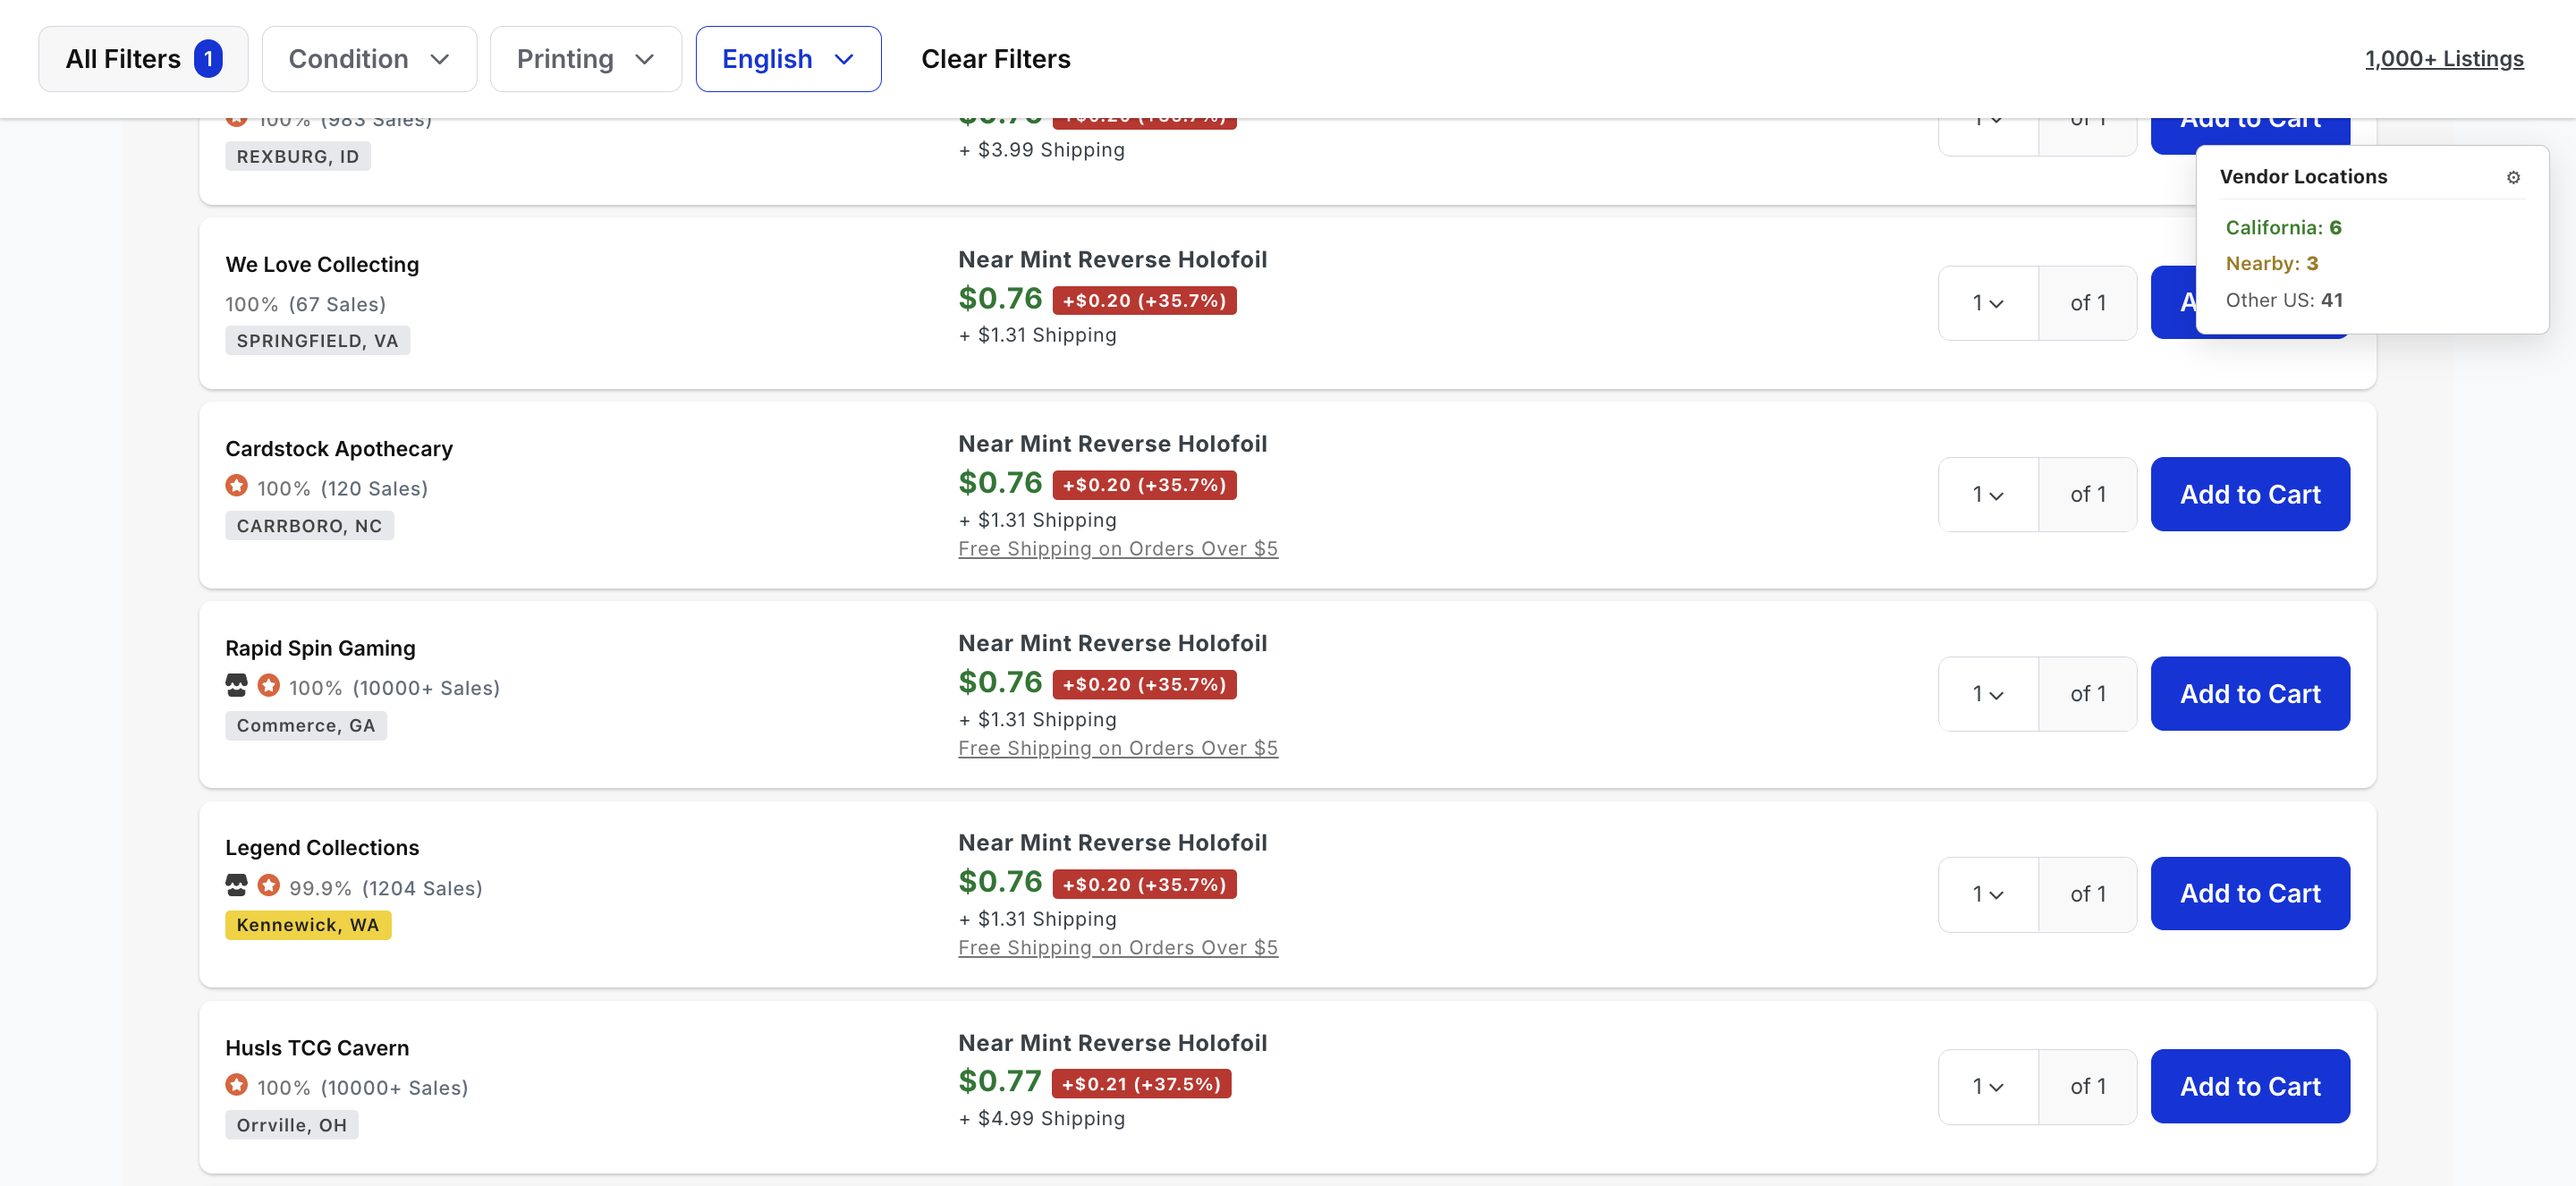
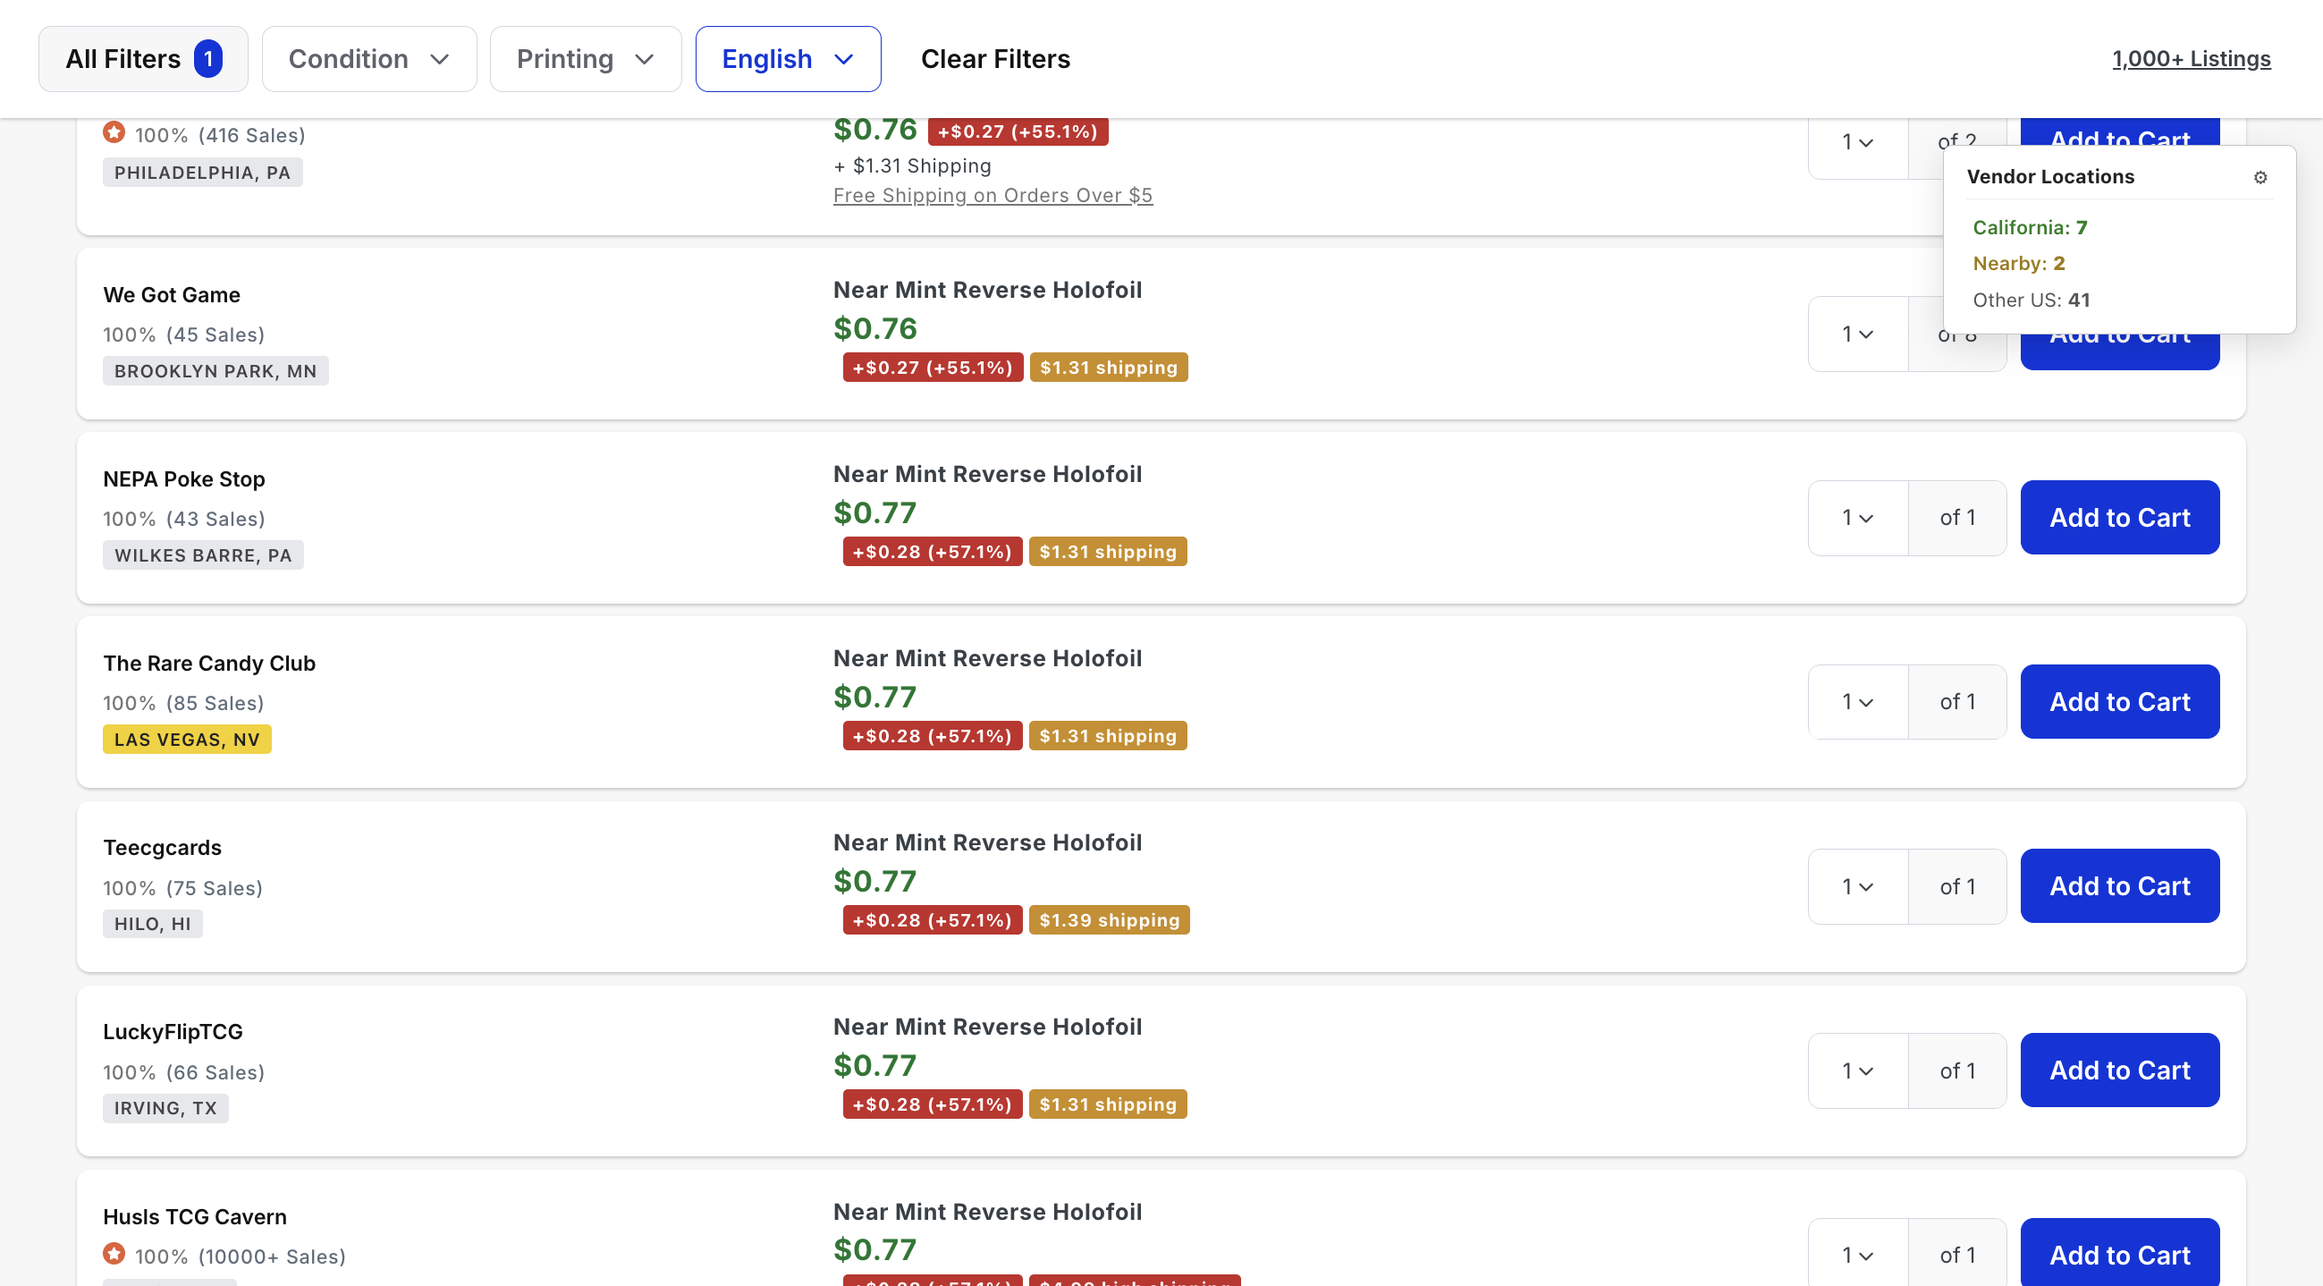
Add shipping/Deal chips, cart subtotal in header, and per-seller Deal math
Each listing now shows a chip row on the shipping line with three chips:
the existing price-vs-market chip, a new shipping chip (green for
included, yellow under $2, red >= $2 with "high shipping" text), and a
purple Deal chip when the all-in cost beats the market price.

The Deal calculation factors in TCGplayer's per-seller "Free Shipping
on Orders Over $5" promo. The extension fetches the user's current cart
summary from mpgateway.tcgplayer.com (added as a host permission) and
keeps a per-seller subtotal map. A listing's stated shipping is treated
as $0 only when both the promo is on the listing and the seller's
existing cart contribution plus the listing's price clears the $5
threshold. Otherwise stated shipping is used. Deal chips re-evaluate
whenever the cart count changes.

The cart subtotal is also rendered next to the header cart count in the
same green TCGplayer uses for listing prices, always visible (even at
$0.00).

CLAUDE.md added with a note that any change to the Deal math has to
update the README in the same commit. Hero and settings screenshots
re-captured to reflect the new chip layout.

diff --git a/content.js b/content.js
@@ -131,11 +131,80 @@
   }
   applyHideToggles();
 
+  const FREE_SHIP_THRESHOLD = 5.00;
+  const CART_SUMMARY_URL = (key) => `https://mpgateway.tcgplayer.com/v1/cart/${key}/summary?mpfev=5106`;
+  const cartSellerSubtotal = new Map();
+  let cartSubtotal = 0;
+  let cartFetchPromise = null;
+
+  function getCartKey() {
+    const m = document.cookie.match(/StoreCart_PRODUCTION=CK=([a-f0-9]+)/);
+    return m ? m[1] : null;
+  }
+
+  async function refreshCart() {
+    const key = getCartKey();
+    if (!key) {
+      cartSubtotal = 0;
+      cartSellerSubtotal.clear();
+      renderCartBadge();
+      return;
+    }
+    if (cartFetchPromise) return cartFetchPromise;
+    cartFetchPromise = (async () => {
+      try {
+        const r = await fetch(CART_SUMMARY_URL(key), { credentials: 'include', headers: { Accept: 'application/json' } });
+        if (r.ok) {
+          const json = await r.json();
+          const cart = json && json.results && json.results[0];
+          cartSellerSubtotal.clear();
+          if (cart) {
+            for (const s of cart.sellers || []) {
+              if (s.sellerKey) cartSellerSubtotal.set(s.sellerKey, Number(s.productTotalCost) || 0);
+            }
+            cartSubtotal = Number(cart.itemSubtotal) || 0;
+          } else {
+            cartSubtotal = 0;
+          }
+        }
+      } catch (_) {}
+      renderCartBadge();
+      recomputeDealChips();
+      cartFetchPromise = null;
+    })();
+    return cartFetchPromise;
+  }
+
+  function renderCartBadge() {
+    const countEl = document.querySelector('.mp-header__content__cart-count');
+    if (!countEl) return;
+    let label = countEl.querySelector('.tcgplus-cart-subtotal');
+    if (!label) {
+      label = document.createElement('span');
+      label.className = 'tcgplus-cart-subtotal';
+      countEl.appendChild(label);
+    }
+    label.textContent = `$${cartSubtotal.toFixed(2)}`;
+  }
+
+  let cartCountObserver = null;
+  function watchCartCount() {
+    const countEl = document.querySelector('.mp-header__content__cart-count__chip');
+    if (!countEl || cartCountObserver) return;
+    cartCountObserver = new MutationObserver(() => refreshCart());
+    cartCountObserver.observe(countEl, { childList: true, characterData: true, subtree: true });
+  }
+
   const MARKET_PRICE_SELECTOR = '.price-points__upper__price';
   const LISTING_PRICE_SELECTORS = [
     '.listing-item__listing-data__info__price',
     '.listing-item__price',
     '[data-testid="listing-price"]',
+  ];
+  const LISTING_SHIPPING_SELECTORS = [
+    '.listing-item__listing-data__info__shipping',
+    '.listing-item__shipping',
+    '[data-testid="shipping"]',
   ];
   let marketPrice = null;
   let listingPriceWarned = false;
@@ -146,6 +215,41 @@
     if (!m) return null;
     const v = parseFloat(m[1]);
     return Number.isFinite(v) && v > 0 ? v : null;
+  }
+
+  function parseShippingCost(text) {
+    if (!text) return null;
+    const explicit = text.match(/\+?\s*\$\s*(\d+(?:\.\d+)?)\s*shipping/i);
+    if (explicit) {
+      const v = parseFloat(explicit[1]);
+      if (Number.isFinite(v) && v >= 0) return v;
+    }
+    if (/shipping:\s*included/i.test(text)) return 0;
+    if (/free\s+shipping/i.test(text) && !/orders?\s+over/i.test(text)) return 0;
+    return null;
+  }
+
+  function hasFreeShippingPromo(item) {
+    if (item.querySelector('.free-shipping-over-min')) return true;
+    return /free\s+shipping\s+on\s+orders?\s+over/i.test(item.textContent || '');
+  }
+
+  function findListingShipping(item) {
+    for (const sel of LISTING_SHIPPING_SELECTORS) {
+      const el = item.querySelector(sel);
+      if (!el) continue;
+      const cost = parseShippingCost(el.textContent);
+      if (cost != null) return { el, cost };
+    }
+    const candidates = item.querySelectorAll('span, div, p');
+    for (const el of candidates) {
+      if (el.children.length > 2) continue;
+      const text = (el.textContent || '').trim();
+      if (!/shipping/i.test(text)) continue;
+      const cost = parseShippingCost(text);
+      if (cost != null) return { el, cost };
+    }
+    return null;
   }
 
   function findMarketPrice() {
@@ -177,6 +281,12 @@
     return { bg: `hsl(${hue}, 78%, 45%)`, fg };
   }
 
+  function chipForShipping(cost) {
+    if (cost === 0) return { bg: '#1e7e1e', fg: '#fff', text: 'Shipping: Included' };
+    if (cost < 2) return { bg: '#cc8c19', fg: '#fff', text: `$${cost.toFixed(2)} shipping` };
+    return { bg: '#c62828', fg: '#fff', text: `$${cost.toFixed(2)} high shipping` };
+  }
+
   function formatAbsDiff(diff) {
     const sign = diff > 0 ? '+' : diff < 0 ? '-' : '';
     return `${sign}$${Math.abs(diff).toFixed(2)}`;
@@ -197,11 +307,71 @@
     const diff = price - market;
     const pct = (diff / market) * 100;
     const colors = chipColorForPct(pct);
+    const deltaChipHtml = `<span class="tcgplus-price-chip" style="background:${colors.bg};color:${colors.fg};" title="vs market $${market.toFixed(2)}">${formatAbsDiff(diff)} (${formatPctDiff(pct)})</span>`;
+
     const wrap = document.createElement('span');
     wrap.className = 'tcgplus-price-chips';
-    wrap.innerHTML = `<span class="tcgplus-price-chip" style="background:${colors.bg};color:${colors.fg};" title="vs market $${market.toFixed(2)}">${formatAbsDiff(diff)} (${formatPctDiff(pct)})</span>`;
-    priceEl.appendChild(wrap);
+
+    const shipping = findListingShipping(item);
+    if (shipping) {
+      const sc = chipForShipping(shipping.cost);
+      const shipChipHtml = `<span class="tcgplus-price-chip tcgplus-ship-chip" style="background:${sc.bg};color:${sc.fg};">${sc.text}</span>`;
+      const promoFree = hasFreeShippingPromo(item);
+      item.dataset.tcgplusPrice = String(price);
+      item.dataset.tcgplusShipping = String(shipping.cost);
+      item.dataset.tcgplusPromo = promoFree ? '1' : '0';
+      item.dataset.tcgplusMarket = String(market);
+      const dealChipHtml = renderDealChipHtml(item);
+      wrap.innerHTML = dealChipHtml + deltaChipHtml + shipChipHtml;
+      shipping.el.dataset.tcgplusOriginalText = shipping.el.textContent.trim();
+      shipping.el.innerHTML = '';
+      shipping.el.appendChild(wrap);
+    } else {
+      wrap.innerHTML = deltaChipHtml;
+      priceEl.appendChild(wrap);
+    }
+
     item.dataset.tcgplusChips = '1';
+  }
+
+  function renderDealChipHtml(item) {
+    const price = parseFloat(item.dataset.tcgplusPrice || '0');
+    const shipping = parseFloat(item.dataset.tcgplusShipping || '0');
+    const market = parseFloat(item.dataset.tcgplusMarket || '0');
+    const promoFree = item.dataset.tcgplusPromo === '1';
+    const sellerKey = item.dataset.tcgplusSellerKey || '';
+    if (!price || !market) return '';
+    const sellerCart = sellerKey ? (cartSellerSubtotal.get(sellerKey) || 0) : 0;
+    const promoQualifies = promoFree && (sellerCart + price) >= FREE_SHIP_THRESHOLD;
+    const effectiveShipping = promoQualifies ? 0 : shipping;
+    const total = price + effectiveShipping;
+    if (total >= market) return '';
+    const note = promoQualifies
+      ? `Total $${total.toFixed(2)} (free-shipping promo applies: $${sellerCart.toFixed(2)} already with this seller + $${price.toFixed(2)} clears the $${FREE_SHIP_THRESHOLD.toFixed(2)} threshold)`
+      : `Total $${total.toFixed(2)} is below market $${market.toFixed(2)}`;
+    return `<span class="tcgplus-price-chip tcgplus-deal-chip" title="${note}">Deal</span>`;
+  }
+
+  function recomputeDealChips() {
+    document.querySelectorAll('.listing-item[data-tcgplus-chips="1"]').forEach((item) => {
+      const wrap = item.querySelector('.tcgplus-price-chips');
+      if (!wrap) return;
+      const existing = wrap.querySelector('.tcgplus-deal-chip');
+      const html = renderDealChipHtml(item);
+      if (!html) {
+        if (existing) existing.remove();
+        return;
+      }
+      if (existing) {
+        const tmp = document.createElement('span');
+        tmp.innerHTML = html;
+        wrap.replaceChild(tmp.firstChild, existing);
+      } else {
+        const tmp = document.createElement('span');
+        tmp.innerHTML = html;
+        wrap.insertBefore(tmp.firstChild, wrap.firstChild);
+      }
+    });
   }
 
   function backfillPriceChips() {
@@ -271,6 +441,7 @@
       return;
     }
 
+    item.dataset.tcgplusSellerKey = key;
     const stateCode = stateCodeFromInfo(info);
     const tier = classifyState(stateCode);
     const text = formatLocation(info);
@@ -396,6 +567,8 @@
     });
     backfillPriceChips();
     renderPanel();
+    watchCartCount();
+    renderCartBadge();
   }
 
   let scanTimer = null;
@@ -409,5 +582,7 @@
   observer.observe(document.body, { childList: true, subtree: true });
 
   scan();
+  refreshCart();
+
   console.log('[TCG+] vendor location extension loaded');
 })();

diff --git a/content.css b/content.css
@@ -21,6 +21,22 @@
   line-height: 1.3;
   white-space: nowrap;
 }
+.tcgplus-deal-chip {
+  background: #7e22ce;
+  color: #fff;
+  text-transform: uppercase;
+  letter-spacing: 0.04em;
+}
+
+.tcgplus-cart-subtotal {
+  display: inline-block;
+  margin-left: 6px;
+  color: #05772d;
+  font-size: 13px;
+  font-weight: 700;
+  line-height: 1.4;
+  vertical-align: middle;
+}
 .tcgplus-loc {
   display: inline-block;
   padding: 2px 7px;

diff --git a/README.md b/README.md
@@ -17,12 +17,19 @@ Every listing gets a city/state badge under the seller's rating, color-coded by 
 ### Click-to-filter panel
 A floating panel summarizes the page by tier (Home / Nearby / Other US). Click a tier to filter the listings to just that group, click again to clear. Counts reflect only the active page. The chosen filter sticks across reloads.
 
-### Price-vs-market chip
-Each listing's price gets a chip showing how far it is from the page's market price, e.g. `+$5.00 (+16.7%)`. The colour follows the gap. Below market is solid green. Above market shifts from yellow through orange to red, hitting full red at 10% over.
+### Price, shipping, and Deal chips
+Each listing gets a row of chips that show price-vs-market, shipping cost, and whether the all-in cost is a deal.
+
+- **Price-vs-market chip**: how far the price is from the page's market price, e.g. `+$5.00 (+16.7%)`. Solid green below market. Above market shifts from yellow through orange to red, hitting full red at 10% over.
+- **Shipping chip**: replaces the plain "+ $X.XX Shipping" line. Green when shipping is included, yellow under $2, red at $2 or more (labelled "high shipping").
+- **Deal chip**: a purple "DEAL" badge appears in front of the others when the listing's all-in cost would still beat the market price. The math factors in any "Free Shipping on Orders Over $X" promo on the listing, but only when the user's existing cart subtotal *with that same seller* plus the listing's price clears the global free-shipping threshold (currently $5). If the listing is from a seller already in the cart, the Deal chip will start appearing once you've added enough to qualify.
 
 | Below market | Near market | Above market |
 |---|---|---|
 | ![Green chips below market](docs/images/chips-below-market.png) | ![Orange chips near market](docs/images/chips-near-market.png) | ![Red chips above market](docs/images/chips-above-market.png) |
+
+### Cart subtotal in the header
+The cart icon in TCGplayer's header normally shows the item count. TCGPlus adds the cart's current subtotal next to it in the same green text TCGplayer uses for listing prices, so you can see what you're spending without opening the cart. It always shows, even at `$0.00`. The number refreshes whenever the count badge changes, so adding or removing an item updates it automatically. Same number is what feeds the Deal-chip math.
 
 ### Settings drawer
 The gear icon on the panel opens settings:
@@ -36,7 +43,12 @@ Settings are stored in `localStorage`. Changing the home or nearby states reclas
 ![Settings drawer with home state, nearby states, and hide controls](docs/images/settings.png)
 
 ### How it works
-The only network call the extension makes is to TCGplayer's own seller API for vendor location lookups. The market price is read straight from the page DOM. Nothing is sent anywhere else.
+TCGPlus only calls TCGplayer's own APIs:
+
+- `seller-stores-backend.tcgplayer.com/sm/seller/<key>` for each unique vendor on the page (used for the location badge).
+- `mpgateway.tcgplayer.com/v1/cart/<key>/summary` for the cart subtotal and per-seller breakdown.
+
+The market price is read straight from the page DOM. Nothing is sent anywhere else.
 
 ## Install (from source)
 
@@ -52,7 +64,7 @@ Plain MV3, no build step. Edit `content.js` and `content.css`, hit reload on the
 
 CI on GitHub Actions validates `manifest.json` and runs `node --check` on the content script. Pushing a `v*` tag builds a zip and attaches it to a GitHub Release.
 
-The seller API call is to `https://seller-stores-backend.tcgplayer.com/sm/seller/<key>`, declared as a host permission in the manifest. Market price is read from the page DOM at `.price-points__upper__price`.
+The fetch targets are `https://seller-stores-backend.tcgplayer.com/sm/seller/<key>` (vendor info) and `https://mpgateway.tcgplayer.com/v1/cart/<key>/summary` (cart subtotal). Both are listed as host permissions in the manifest. Market price is read from the page DOM at `.price-points__upper__price`.
 
 ## License
 

diff --git a/CLAUDE.md b/CLAUDE.md
@@ -1,0 +1,24 @@
+# CLAUDE.md
+
+Notes for AI agents working on this repo.
+
+## Deal math must stay in sync between code and README
+
+The "Deal" chip's logic is one of the few things in this extension that's hard to verify by reading the code alone. It depends on:
+
+- The listing's price.
+- The listing's stated shipping cost.
+- Whether the listing has the "Free Shipping on Orders Over $X" promo.
+- The per-seller cart subtotal from `mpgateway.tcgplayer.com/v1/cart/<key>/summary`.
+- The global free-shipping threshold (currently $5, fetched from `/v2/param/freeshippingthreshold`, hard-coded as `FREE_SHIP_THRESHOLD` for now).
+- The page's market price.
+
+Whenever you change the formula in `content.js` (search for `renderDealChipHtml` and `recomputeDealChips`), update the `Price, shipping, and Deal chips` section of `README.md` in the same commit. The README is the user-facing source of truth for what triggers the chip; the code must agree.
+
+If you add new inputs (e.g. tax, kickbacks, multi-listing combinations), document them in the README too. Don't ship a Deal-math change without a matching README update.
+
+## Other things to keep in mind
+
+- The extension is plain MV3 with no build step. Keep `content.js` and `content.css` editable by hand.
+- `manifest.json` host permissions must list every host the script fetches from. Currently `seller-stores-backend.tcgplayer.com` (vendor info) and `mpgateway.tcgplayer.com` (cart). If you add another fetch target, add the host permission too.
+- All persisted state lives in `localStorage` under the `tcgplus.*` namespace. No accounts, no servers.
